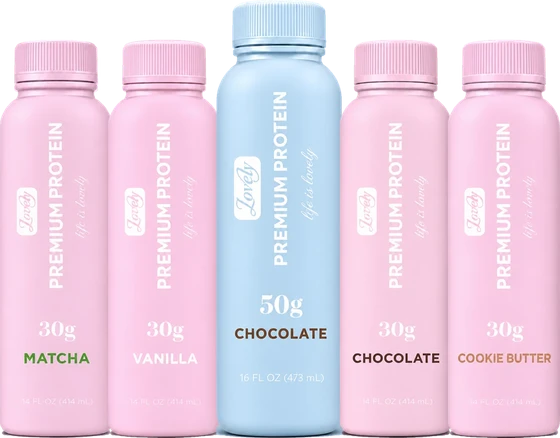
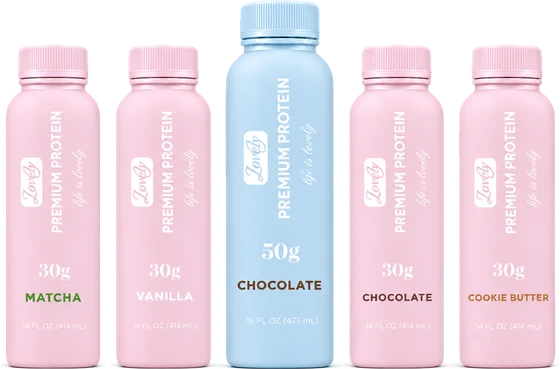
Build a box card: new Lovely bottle lineup photo, full width on phones
Claude-Session: https://claude.ai/code/session_01AzpPYfJ2iNTin5mbwrihoY

Changed region(s): [[0.0, 0.0, 1.0, 1.0]]

diff --git a/index.html b/index.html
@@ -204,7 +204,7 @@ header.top .logo img[src$="logo.png"] { filter: brightness(0) invert(1) !importa
 @media (max-width: 860px) {
   .doors.one .door:has(img.lineup) { min-height: 0; padding-bottom: 0; }
   .doors.one .door:has(img.lineup) p { max-width: none; }
-  .doors.one .door img.lineup { position: static; display: block; width: min(320px, 100%); margin: 16px auto 0; }
+  .doors.one .door img.lineup { position: static; display: block; width: min(340px, 100%); height: auto; max-width: 100%; margin: 16px auto 0; }
 }
 /* what's in it / what never is */
 .every-sec h2 em { color: var(--pink); font-style: normal; }
@@ -1160,7 +1160,7 @@ header.top { background: var(--bg) !important; backdrop-filter: none !important;
   <a class="btn" href="shop.html">Build a box <span class="boxcount" hidden>0</span></a>
 </aside><main id="main">
 <section class="hero hbgw" aria-labelledby="h-shakes"><picture class="hbg"><source media="(max-width: 760px)" srcset="img/hero2_grid_m720.webp 720w, img/hero2_grid_m1080.webp 1080w" sizes="100vw"><img src="img/hero3_grid_2400.webp" srcset="img/hero3_grid_1600.webp 1600w, img/hero3_grid_2400.webp 2400w" sizes="100vw" alt="Lovely protein shakes in every flavor: pink 30g bottles and 12-packs in vanilla, chocolate, cookie butter and matcha, and light-blue 50g bottles and 12-packs" width="2400" height="1350" fetchpriority="high"></picture><div class="wrap"><div><h1 id="h-shakes">The protein shake you actually <em>want to drink.</em></h1><p class="lead">Tastes like a milkshake. Protein for him and for her. Protein for light weight, heavy weight, and everything in between. Only ingredients you can actually pronounce. Helping you build a life that's lovely.</p><div class="ctas stack"><a class="btn alt" href="index.html#swellpass"><span class="swl"><span>Lovely</span></span> Pass</a><a class="btn" href="#find">Find a fridge</a></div></div></div></section>
-<section class="topbox" aria-label="Build a box"><div class="wrap"><div class="doors one"><a class="door dark" href="shop.html"><div><h3>Build a box of 12 or 24</h3><p>Mix any flavors, 30g or 50g. Free shipping on 24, because we're not monsters. Pay when it ships.</p></div><span class="go">Start building →</span><img class="lineup" src="img/lineup_mix.webp" srcset="img/lineup_mix_sm.webp 560w, img/lineup_mix.webp 844w" sizes="(max-width: 860px) 320px, 420px" alt="Pink 30g Lovely bottles in Matcha, Vanilla, Chocolate and Cookie Butter with a light-blue 50g Chocolate" width="844" height="660"></a></div></div></section><section class="shelf" style="padding-block:28px 10px" aria-labelledby="shelf-shakes"><div class="wrap"><div class="shelf-top"><h2 id="shelf-shakes">5 flavors. Zero chalk.</h2><div class="filters" role="group" aria-label="Filter"><button type="button" class="press" aria-pressed="true" data-filter="all">All</button><button type="button" class="press" aria-pressed="false" data-filter="classic">Launch flavors</button><button type="button" class="press" aria-pressed="false" data-filter="new">New</button></div></div><div class="bottle-view"><p><b>Pick a bottle.</b> Tap any flavor for the full nutrition facts. We have nothing to hide.</p><div class="segline" role="group" aria-label="Bottle size"><button type="button" data-protein="30" aria-pressed="true"><span class="swl"><span>Lovely</span></span> · 30g</button><button type="button" data-protein="50" aria-pressed="false" class="w">Lovely · 50g</button></div></div><div class="rail"><article class="fl" data-tag="classic" id="flavor-choc"><span class="tag classic">Launch flavor</span><button type="button" class="pic" data-drink="choc" aria-label="Chocolate: see nutrition facts"><img src="img/b_choc.webp" alt="Lovely Chocolate protein shake" width="200" height="520" loading="lazy"></button><h3><button type="button" class="nlink" data-drink="choc">Chocolate</button></h3><button type="button" class="nf-link" data-drink="choc">Nutrition facts</button><button type="button" class="add" data-add="choc">Add to box</button></article><article class="fl" data-tag="classic" id="flavor-van"><span class="tag classic">Launch flavor</span><button type="button" class="pic" data-drink="van" aria-label="Vanilla: see nutrition facts"><img src="img/b_van.webp" alt="Lovely Vanilla protein shake" width="200" height="520" loading="lazy"></button><h3><button type="button" class="nlink" data-drink="van">Vanilla</button></h3><button type="button" class="nf-link" data-drink="van">Nutrition facts</button><button type="button" class="add" data-add="van">Add to box</button></article><article class="fl" data-tag="classic" id="flavor-cbutter"><span class="tag classic">Launch flavor</span><button type="button" class="pic" data-drink="cbutter" aria-label="Cookie Butter: see nutrition facts"><img src="img/b_cbutter.webp" alt="Lovely Cookie Butter protein shake" width="200" height="520" loading="lazy"></button><h3><button type="button" class="nlink" data-drink="cbutter">Cookie Butter</button></h3><button type="button" class="nf-link" data-drink="cbutter">Nutrition facts</button><button type="button" class="add" data-add="cbutter">Add to box</button></article><article class="fl" data-tag="new" id="flavor-matcha"><span class="tag new">New</span><button type="button" class="pic" data-drink="matcha" aria-label="Matcha: see nutrition facts"><img src="img/b_matcha.webp" alt="Lovely Matcha protein shake" width="200" height="520" loading="lazy"></button><h3><button type="button" class="nlink" data-drink="matcha">Matcha</button></h3><button type="button" class="nf-link" data-drink="matcha">Nutrition facts</button><button type="button" class="add" data-add="matcha">Add to box</button></article><article class="fl" data-tag="new" id="flavor-pb"><span class="tag new">New</span><button type="button" class="pic" data-drink="pb" aria-label="Peanut Butter: see nutrition facts"><img src="img/b_pb.webp" alt="Lovely Peanut Butter protein shake" width="200" height="520" loading="lazy"></button><h3><button type="button" class="nlink" data-drink="pb">Peanut Butter</button></h3><button type="button" class="nf-link" data-drink="pb">Nutrition facts</button><button type="button" class="add" data-add="pb">Add to box</button></article></div></div></section>
+<section class="topbox" aria-label="Build a box"><div class="wrap"><div class="doors one"><a class="door dark" href="shop.html"><div><h3>Build a box of 12 or 24</h3><p>Mix any flavors, 30g or 50g. Free shipping on 24, because we're not monsters. Pay when it ships.</p></div><span class="go">Start building →</span><img class="lineup" src="img/lineup_mix.webp" srcset="img/lineup_mix_sm.webp 560w, img/lineup_mix.webp 1315w" sizes="(max-width: 860px) 320px, 420px" alt="Pink 30g Lovely bottles in Matcha, Vanilla, Chocolate and Cookie Butter with a light-blue 50g Chocolate" width="1315" height="867"></a></div></div></section><section class="shelf" style="padding-block:28px 10px" aria-labelledby="shelf-shakes"><div class="wrap"><div class="shelf-top"><h2 id="shelf-shakes">5 flavors. Zero chalk.</h2><div class="filters" role="group" aria-label="Filter"><button type="button" class="press" aria-pressed="true" data-filter="all">All</button><button type="button" class="press" aria-pressed="false" data-filter="classic">Launch flavors</button><button type="button" class="press" aria-pressed="false" data-filter="new">New</button></div></div><div class="bottle-view"><p><b>Pick a bottle.</b> Tap any flavor for the full nutrition facts. We have nothing to hide.</p><div class="segline" role="group" aria-label="Bottle size"><button type="button" data-protein="30" aria-pressed="true"><span class="swl"><span>Lovely</span></span> · 30g</button><button type="button" data-protein="50" aria-pressed="false" class="w">Lovely · 50g</button></div></div><div class="rail"><article class="fl" data-tag="classic" id="flavor-choc"><span class="tag classic">Launch flavor</span><button type="button" class="pic" data-drink="choc" aria-label="Chocolate: see nutrition facts"><img src="img/b_choc.webp" alt="Lovely Chocolate protein shake" width="200" height="520" loading="lazy"></button><h3><button type="button" class="nlink" data-drink="choc">Chocolate</button></h3><button type="button" class="nf-link" data-drink="choc">Nutrition facts</button><button type="button" class="add" data-add="choc">Add to box</button></article><article class="fl" data-tag="classic" id="flavor-van"><span class="tag classic">Launch flavor</span><button type="button" class="pic" data-drink="van" aria-label="Vanilla: see nutrition facts"><img src="img/b_van.webp" alt="Lovely Vanilla protein shake" width="200" height="520" loading="lazy"></button><h3><button type="button" class="nlink" data-drink="van">Vanilla</button></h3><button type="button" class="nf-link" data-drink="van">Nutrition facts</button><button type="button" class="add" data-add="van">Add to box</button></article><article class="fl" data-tag="classic" id="flavor-cbutter"><span class="tag classic">Launch flavor</span><button type="button" class="pic" data-drink="cbutter" aria-label="Cookie Butter: see nutrition facts"><img src="img/b_cbutter.webp" alt="Lovely Cookie Butter protein shake" width="200" height="520" loading="lazy"></button><h3><button type="button" class="nlink" data-drink="cbutter">Cookie Butter</button></h3><button type="button" class="nf-link" data-drink="cbutter">Nutrition facts</button><button type="button" class="add" data-add="cbutter">Add to box</button></article><article class="fl" data-tag="new" id="flavor-matcha"><span class="tag new">New</span><button type="button" class="pic" data-drink="matcha" aria-label="Matcha: see nutrition facts"><img src="img/b_matcha.webp" alt="Lovely Matcha protein shake" width="200" height="520" loading="lazy"></button><h3><button type="button" class="nlink" data-drink="matcha">Matcha</button></h3><button type="button" class="nf-link" data-drink="matcha">Nutrition facts</button><button type="button" class="add" data-add="matcha">Add to box</button></article><article class="fl" data-tag="new" id="flavor-pb"><span class="tag new">New</span><button type="button" class="pic" data-drink="pb" aria-label="Peanut Butter: see nutrition facts"><img src="img/b_pb.webp" alt="Lovely Peanut Butter protein shake" width="200" height="520" loading="lazy"></button><h3><button type="button" class="nlink" data-drink="pb">Peanut Butter</button></h3><button type="button" class="nf-link" data-drink="pb">Nutrition facts</button><button type="button" class="add" data-add="pb">Add to box</button></article></div></div></section>
 <section class="every-sec" id="every" aria-labelledby="h-every"><div class="wrap every-in">
   <div class="every-pic"><img src="img/size_compare.webp" alt="A Lovely 30g and a Lovely 50g protein shake side by side" width="720" height="840" loading="lazy"></div>
   <div><p class="kick">Every <span class="swl"><span>Lovely</span></span> and Lovely 50g</p><h2 id="h-every">What's in it. <em>What never is.</em></h2>
